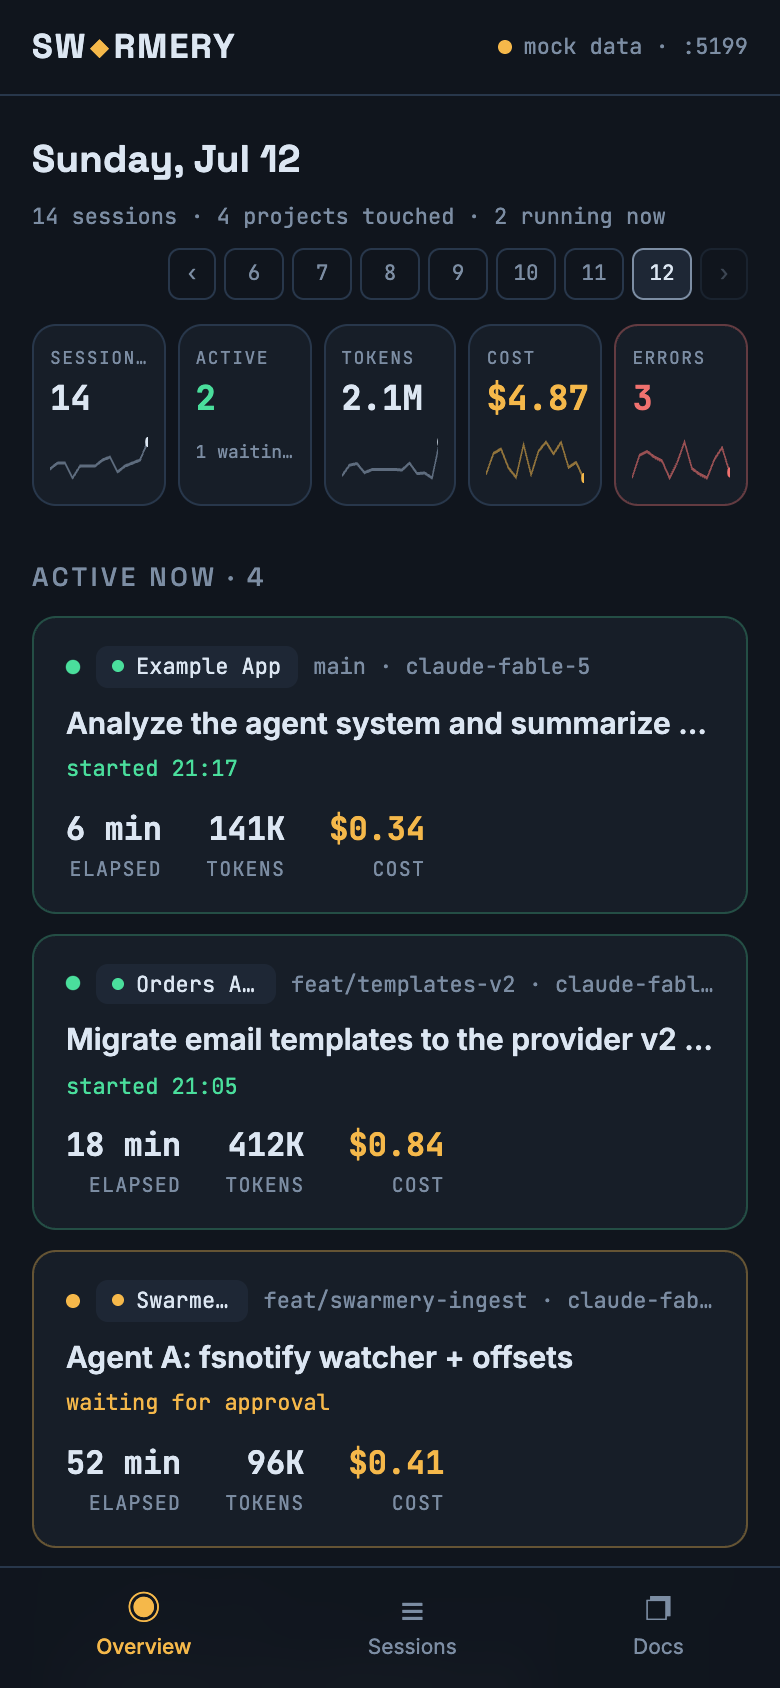
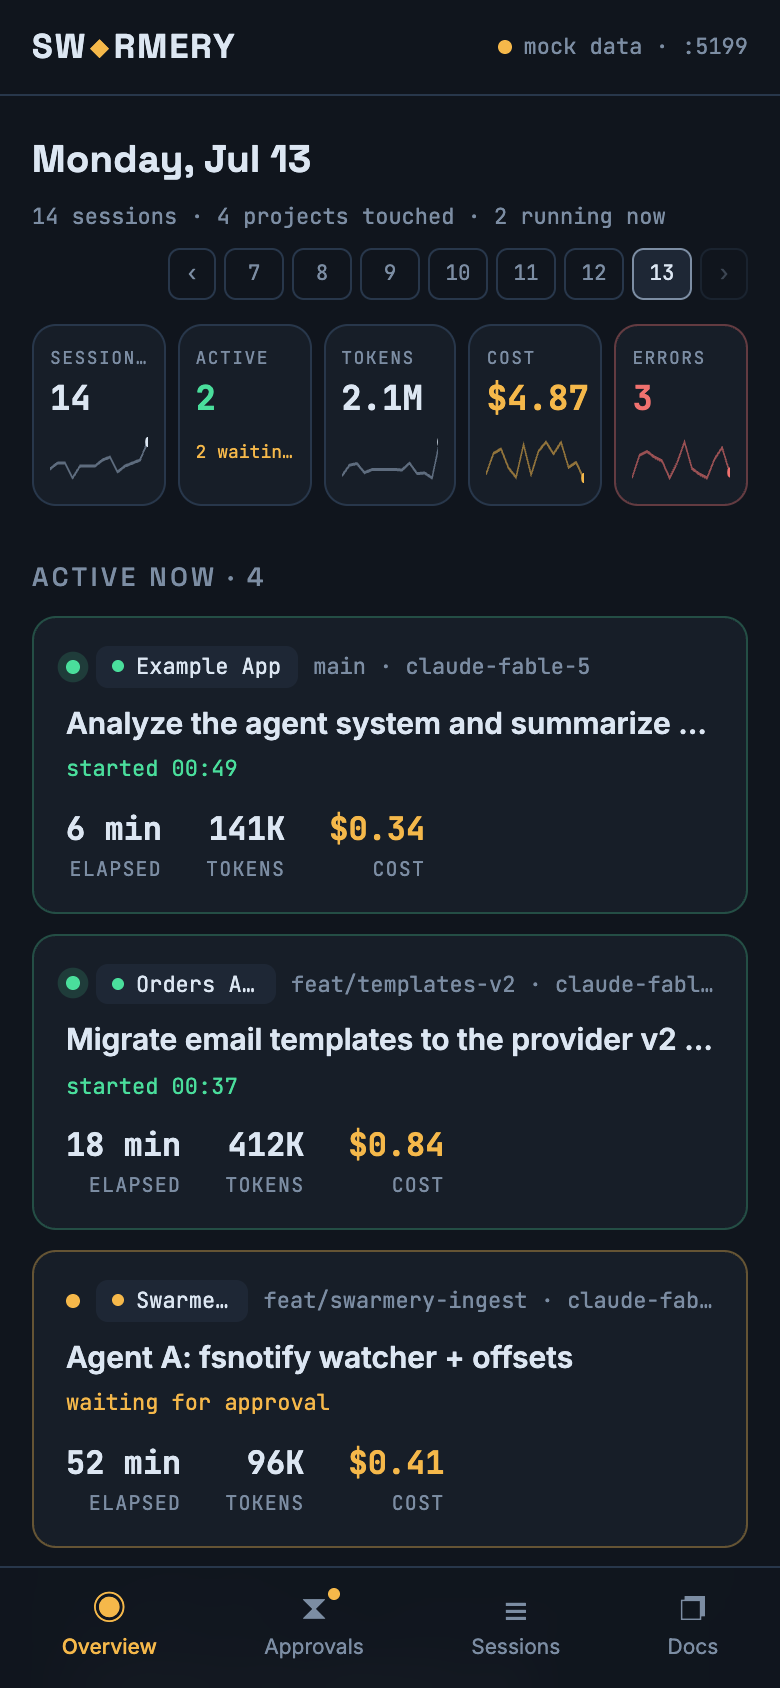
chore(swarmery-web): approvals screenshots, contract requests, step-2.4 completion report
screenshot.mjs captures /approvals at 390×844 and 1440 (waits out the 3 s
mock WS injection); overview shots regenerated for the pending rail + amber
subline. CONTRACT-REQUESTS: GET /api/approvals status=resolved meta-filter
semantics, POST 409 confirmation, optional session attribution on the DTO.

diff --git a/tools/swarmery/docs/plan/phase-2-approvals/step-2.4-agent-b-approvals-ui.md b/tools/swarmery/docs/plan/phase-2-approvals/step-2.4-agent-b-approvals-ui.md
@@ -112,5 +112,62 @@ Previous: [step-2.3-agent-a-hooks-backend.md](step-2.3-agent-a-hooks-backend.md)
 ### Completion Report
 
 ```
-(заповнюється виконавцем після завершення)
+Status: DONE (2026-07-13, branch feat/swarmery-approvals-ui — worktree, not pushed)
+
+Built (web/** + docs only; types.ts untouched, zero new npm deps):
+- pages/Approvals.tsx (route /approvals): PENDING cards — tool name (mono),
+  collapsed tool_input essential (Bash→command, Edit/Write→file_path, generic
+  key fallback → compact JSON → raw string; type-guarded via lib/payload
+  pickString, malformed stdin never crashes a card), expandable full hook-stdin
+  JSON (<pre>), session link (project · title via lazy /api/sessions join,
+  "session #N" fallback), live "hangs Ns" age + "expires in Ns" countdown
+  (ONE shared 1 s ticker for the page), Approve (sage) / Deny (danger, inline
+  optional-reason input — no modal) / Open session. HISTORY below: status chips
+  (approved sage / denied danger / expired + elsewhere dim), via-chip
+  (resolvedVia), relative time, reason line; limit 50, newest first.
+  Optimistic resolve reconciles with the authoritative WS permission_resolved
+  (idempotent upsert by id); any POST failure (409 race) → silent refetch.
+- lib/approvals.ts: requestJson parsing/summary/pretty helpers + fmtClock.
+- lib/ws.ts: ONE shared /api/ws connection app-wide (shell badge + page
+  subscribe to the same socket — no second socket), same reconnect/backoff +
+  60 s reconcile; new applyPermissionMessage upsert reducer next to
+  applySessionMessage. Unknown WS types still ignored by MVP views.
+- App.tsx: Approvals nav item (between Overview and Sessions) with live amber
+  pending-count badge — REST resync on mount/reconnect (source of truth),
+  WS permission_* as the hint stream; count kept as a Set<id> so duplicate
+  resolves stay idempotent. Mobile: amber alert dot on the icon.
+- Overview.tsx: PENDING APPROVALS rail card (top-3 oldest-first + "all
+  approvals →" link, only when count > 0); ACTIVE tile "N waiting approval"
+  subline now live from pending approvals (amber when > 0), stats fallback.
+- waiting_approval visibility: verified already handled (ui.tsx StatusChip/
+  LiveDot amber, SessionCard amber border, Sessions "waiting" filter chip,
+  Overview HeroCard) — no changes needed.
+- Mocks: mock/approvals.ts mutable store (2 pending of different ages, one of
+  each terminal status in history incl. expired + resolved_elsewhere);
+  approve/deny transitions locally + emits permission_resolved; WS scenario:
+  permission_requested injected ~3 s after load, live expiry sweep resolves
+  overdue pendings as expired. mockApi.approvals/resolveApproval in data.ts.
+- api.ts: fetchApprovals(status?) + resolveApproval(id, action, reason?).
+
+Contract requests appended (web/CONTRACT-REQUESTS.md):
+1) GET /api/approvals `status=resolved` meta-filter + no-param + limit/order
+   semantics (UI codes against pending+resolved, slices 50 client-side);
+2) POST /api/approvals/{id} 409 contract confirmation (UI: silent refetch);
+3) nice-to-have: denormalized projectSlug/projectName/sessionTitle on the DTO.
+
+Validation:
+- npx tsc --noEmit + npm run build: green (TS strict, zero new deps).
+- Playwright smoke (mock, port 5199): badge 3 after 3 s injection → 2 after
+  approve → 1 after deny-with-reason; expanded JSON shows tool_input; history
+  gains the rows; reload resyncs from the (fresh) mock store.
+- Screenshots: approvals.png (390×844) + approvals-desktop.png (1440) ADDED to
+  scripts/screenshot.mjs (waits out the 3 s injection); overview{,-desktop}.png
+  regenerated (rail card + amber subline); all other shots restored (timestamp
+  noise only). No-horizontal-scroll assertions pass on every page incl.
+  /approvals at 390 px.
+
+Skipped per plan: swipe actions (Q-C stretch, deferred).
+Known mock limitation: the mock store lives in-page, so a reload resets it —
+"survives reload" is a REST-resync property that only fully shows against the
+real daemon (step 2.5 integration).
 ```

diff --git a/tools/swarmery/web/CONTRACT-REQUESTS.md b/tools/swarmery/web/CONTRACT-REQUESTS.md
@@ -94,3 +94,53 @@ Request format:
   aggregate queries (or denormalized counters) on the list endpoint; the live
   `now:` line above covers the most visible gap via WS without any schema or
   list-query cost. Revisit alongside the phase-2 session-card design.
+
+---
+
+<!-- Phase 2 — parallel wave (gate 2.2 freeze). Resolved at step 2.5/integration. -->
+
+## 2026-07-13 — feat/swarmery-approvals-ui (wave B) — GET /api/approvals filter semantics
+
+- What: confirm the `status` query param value set for `GET /api/approvals`:
+  no param → all rows; `status=pending` → pending only; **`status=resolved` →
+  meta-filter for ALL terminal statuses** (approved|denied|expired|
+  resolved_elsewhere), ordered newest-resolved first, `LIMIT 50` server-side.
+- Why: the frozen surface only names "GET /api/approvals?status=" without the
+  value set; the step-2.4 plan prompt says "History (status=resolved, limit
+  50)". The UI codes against exactly two fetches (`pending` + `resolved`) and
+  slices history to 50 client-side as a belt-and-braces. If the backend only
+  supports exact `PermissionRequestStatus` values, history needs four calls
+  (or a no-param fetch) — say which at integration.
+- Proposed shape:
+  ```
+  GET /api/approvals?status=pending|resolved|<exact status>  → PermissionRequest[]
+  ```
+
+## 2026-07-13 — feat/swarmery-approvals-ui (wave B) — POST /api/approvals/{id} conflict status
+
+- What: confirm the non-2xx contract when the row is no longer `pending`
+  (raced by terminal dialog, another dashboard, or the expiry sweeper) —
+  plan says `409` with the usual `{"error": string}` body.
+- Why: the UI resolves optimistically and treats ANY non-2xx as "resolved
+  elsewhere first" → silent refetch, with the WS `permission_resolved` as the
+  authoritative reconciliation. A defined 409 keeps that behavior intentional
+  rather than accidental.
+
+## 2026-07-13 — feat/swarmery-approvals-ui (wave B) — session attribution on PermissionRequest (nice-to-have)
+
+- What: optional denormalized `projectSlug` / `projectName` / `sessionTitle`
+  on the `PermissionRequest` DTO (additive, like `Session.projectName`).
+- Why: approval cards and history rows show "project · session title"; today
+  the UI lazily fetches `GET /api/sessions` once and joins client-side —
+  works, but a server-side join removes a fetch and covers requests whose
+  session is missing from the list response (plain `session #N` fallback).
+  Not blocking.
+- Proposed shape:
+  ```ts
+  export interface PermissionRequest {
+    // …existing fields…
+    projectSlug?: string;
+    projectName?: string | null;
+    sessionTitle?: string | null;
+  }
+  ```